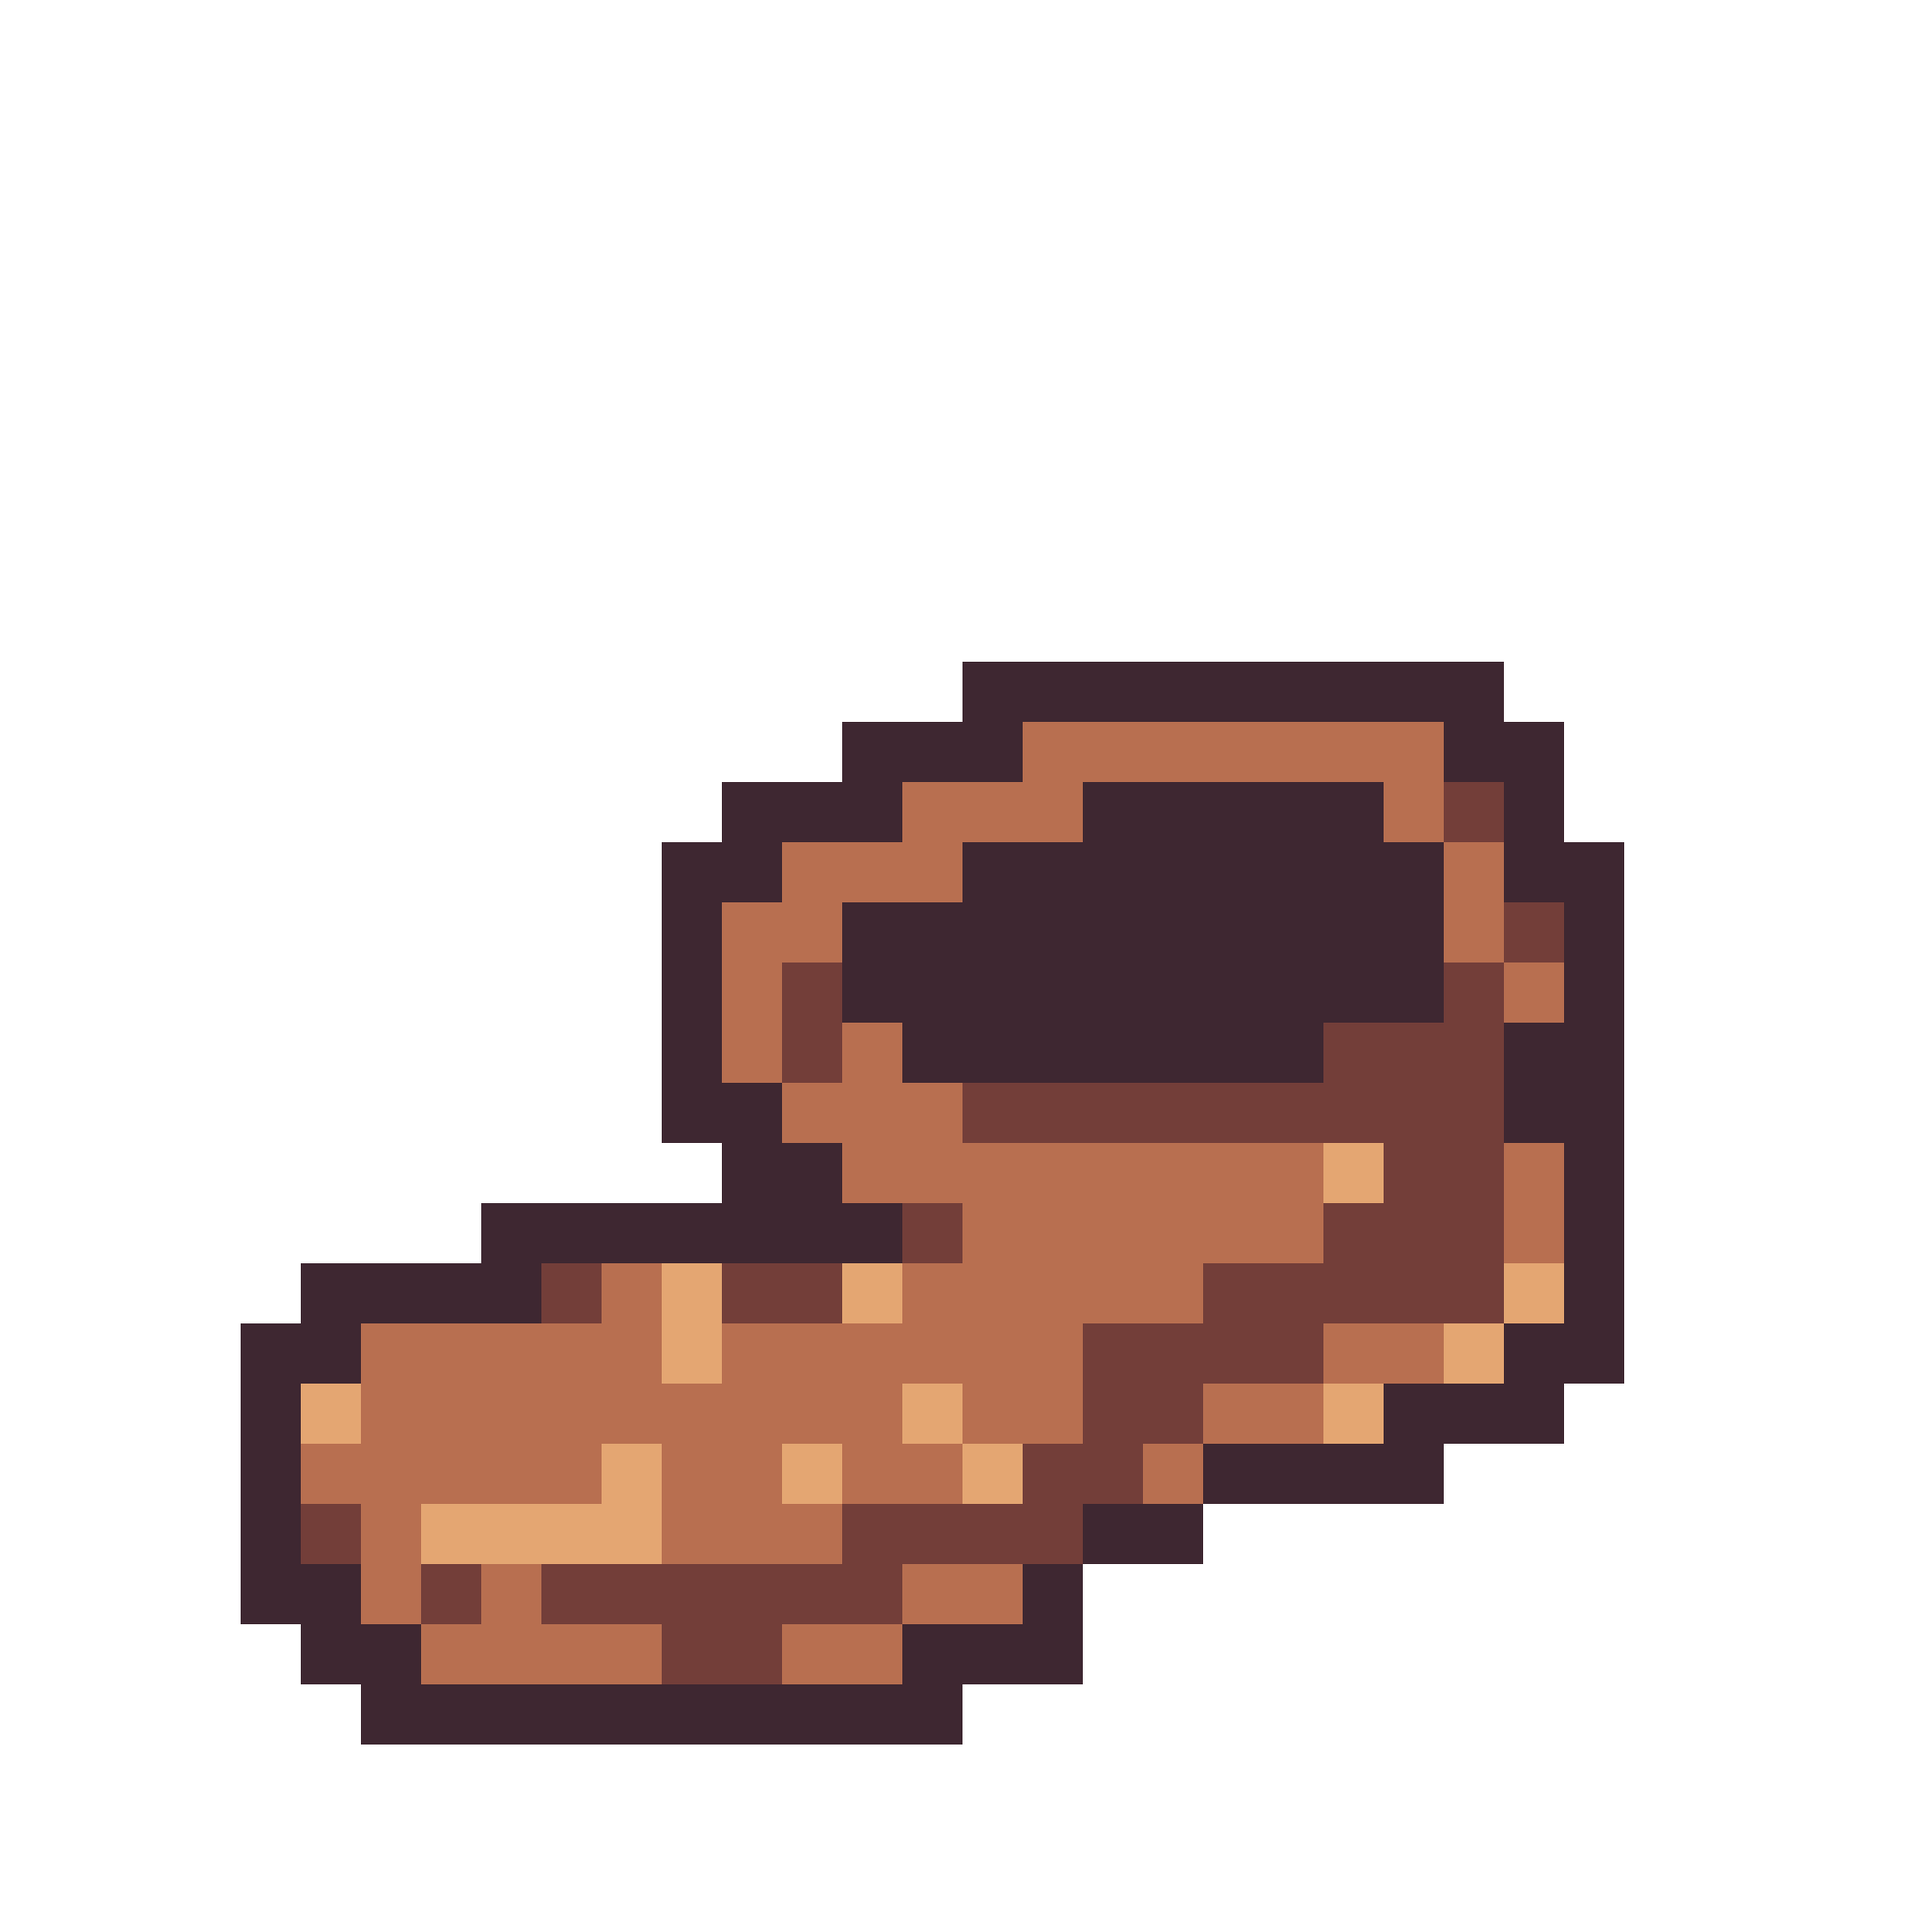
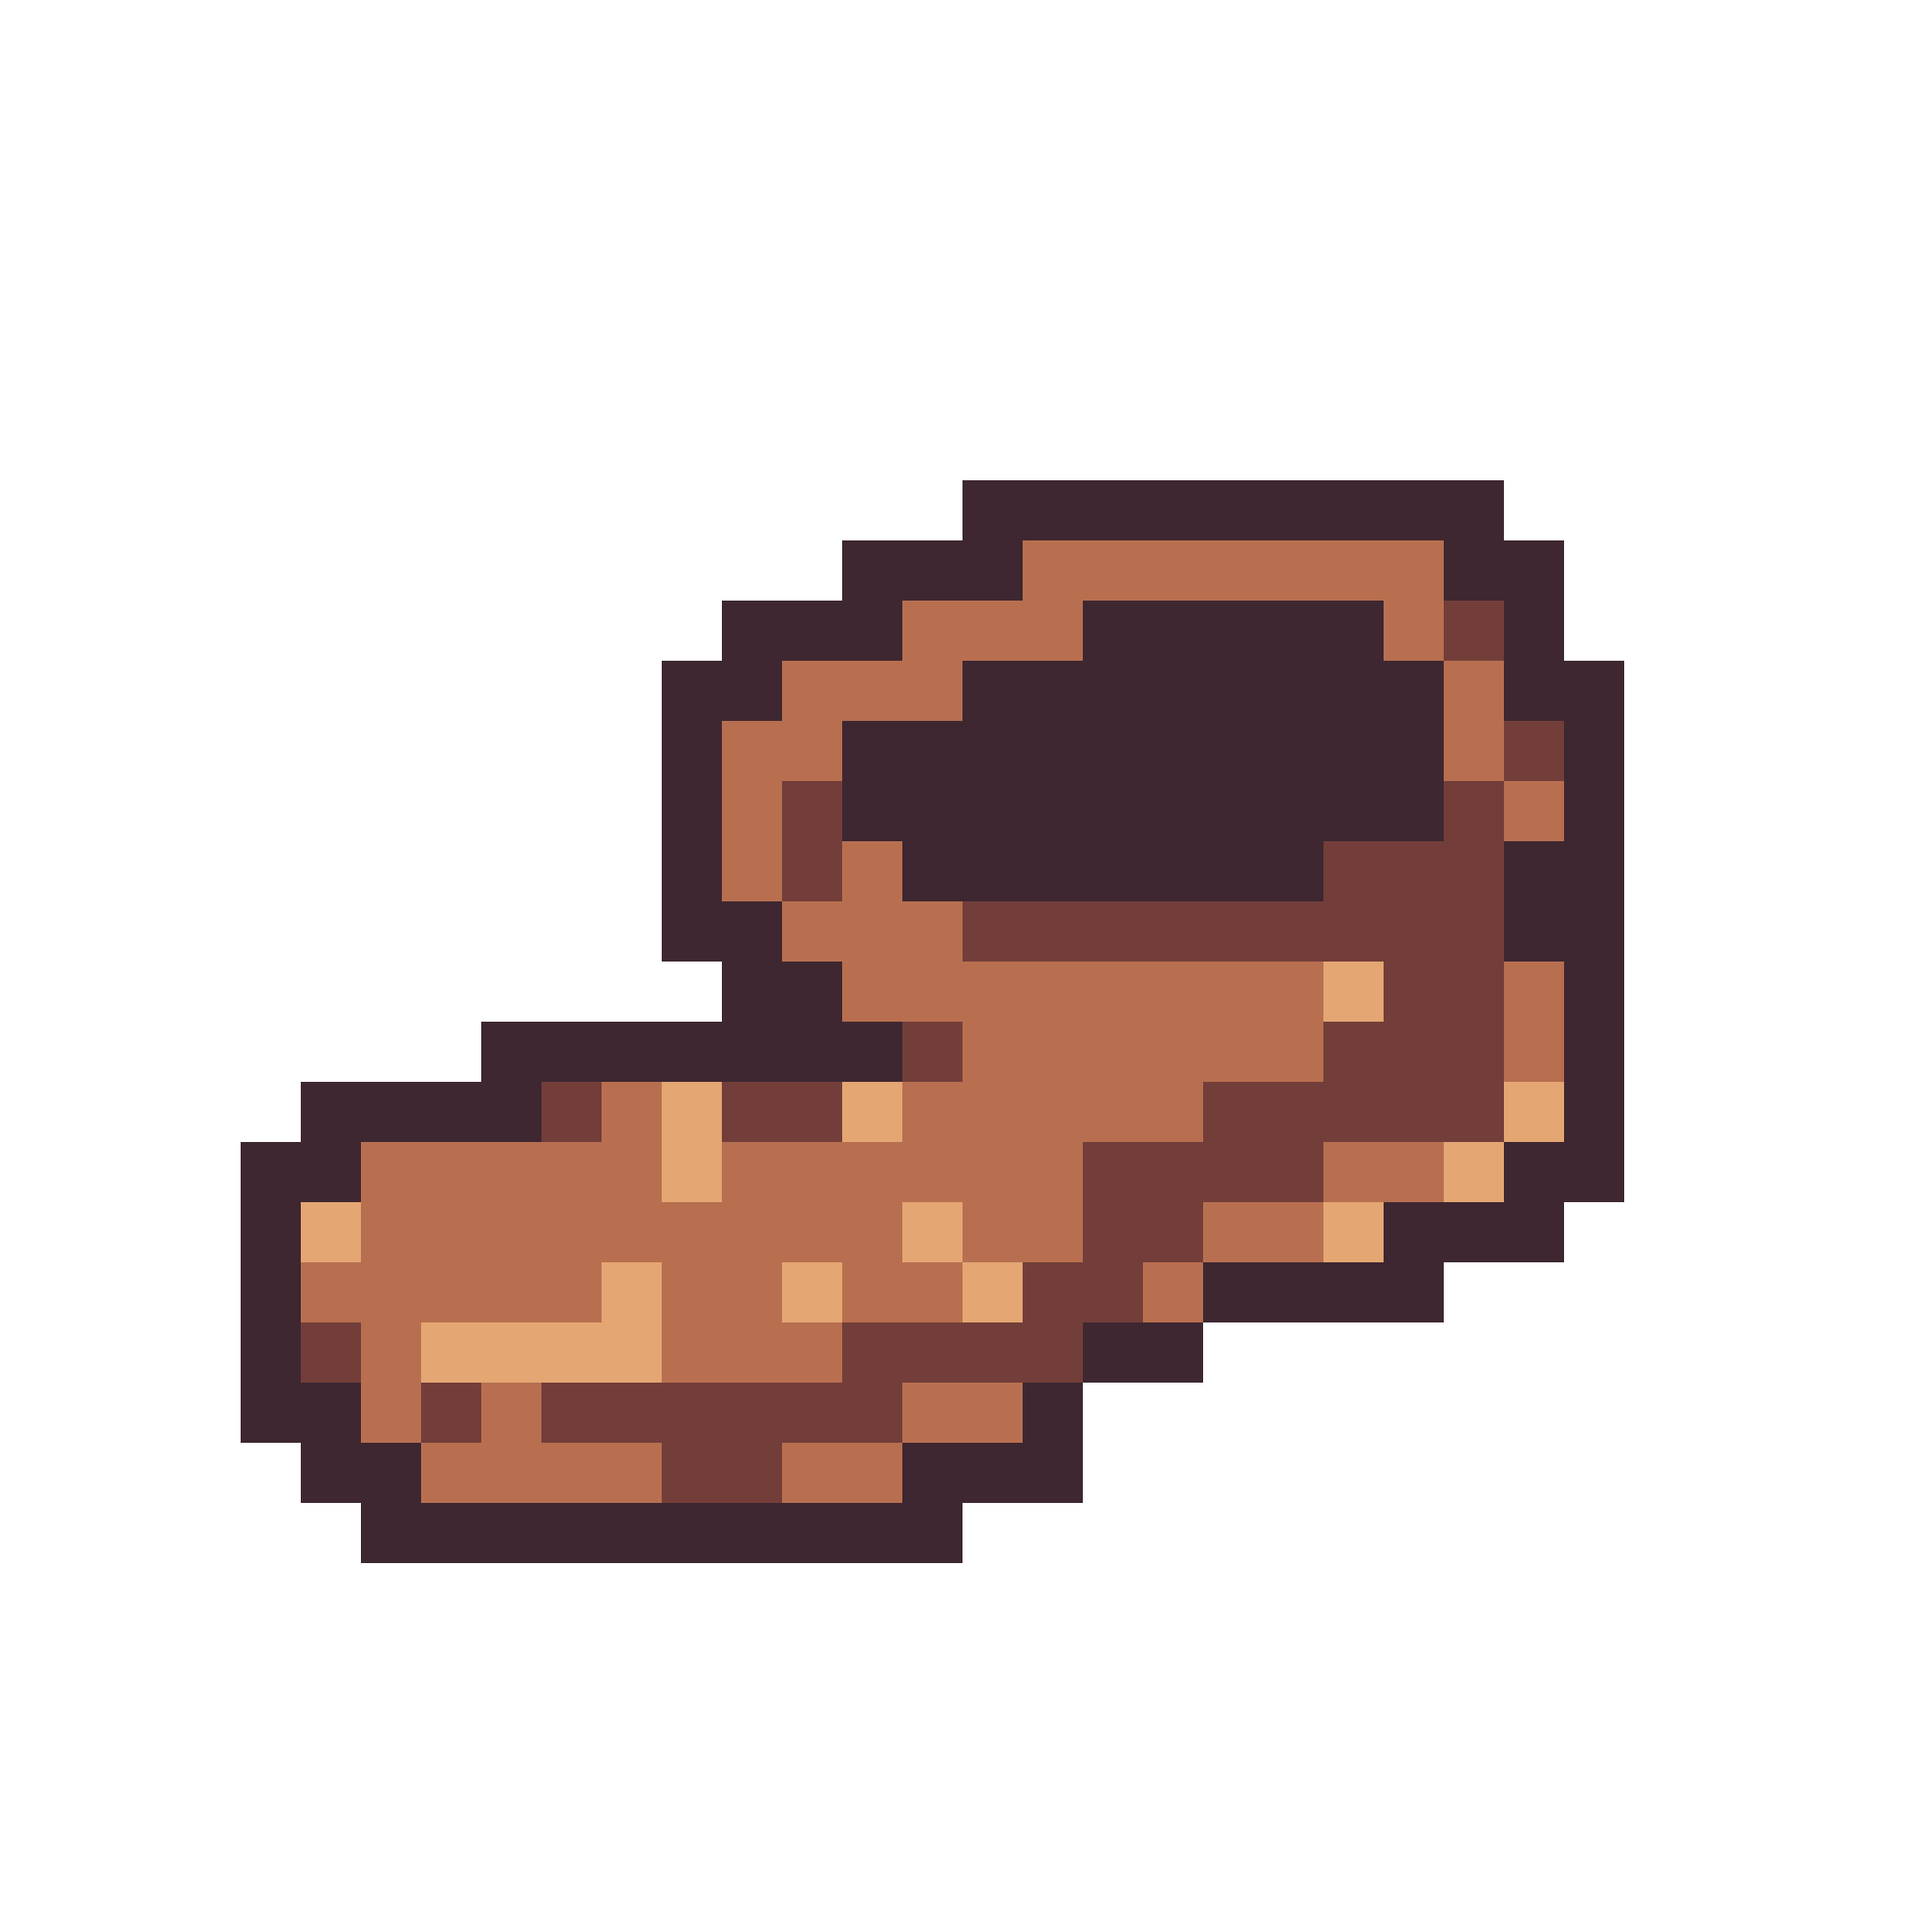
Implemented LEVI and Ogre Strength

Changed region(s): [[0.125, 0.25, 0.8438, 0.9062]]

diff --git a/Spells.cs b/Spells.cs
@@ -29,6 +29,7 @@ class Spells
     new SpellInfo("MACO","Magic Compass", 2, 3, 0, SpellDuration.Medium, SpellContext.Exploring, Role.Conjurer, SpellTarget.None),
     new SpellInfo("BASK","Battleskill", 2, 4, 0, SpellDuration.Combat, SpellContext.Combat, Role.Conjurer, SpellTarget.PartyMember),
     new SpellInfo("WOHL","Word of Healing", 2, 4, 0, SpellDuration.NA, SpellContext.Both, Role.Conjurer, SpellTarget.PartyMember),
+    new SpellInfo("LEVI","Levitation", 3, 5, 0, SpellDuration.Short, SpellContext.Exploring, Role.Conjurer, SpellTarget.None),
     new SpellInfo("WAST","Warstrike", 3, 5, 20, SpellDuration.NA, SpellContext.Combat, Role.Conjurer, SpellTarget.Monsters),
 
     // Magician
@@ -41,6 +42,7 @@ class Spells
     new SpellInfo("MAGA","Mage Gaunlets", 2, 5, 0, SpellDuration.Combat, SpellContext.Combat, Role.Magician, SpellTarget.PartyMember),
     new SpellInfo("AREN","Area Enchant", 2, 5, 3, SpellDuration.Short, SpellContext.Exploring, Role.Magician, SpellTarget.None),
     new SpellInfo("MYSH","Mystic Shield", 3, 6, 0, SpellDuration.Medium, SpellContext.Both, Role.Magician, SpellTarget.FullParty),
+    new SpellInfo("OGST","Ogre Strength", 3, 6, 0, SpellDuration.Combat, SpellContext.Combat, Role.Magician, SpellTarget.PartyMember),
     new SpellInfo("STFL","Star Flare", 3, 6, 40, SpellDuration.NA, SpellContext.Combat, Role.Magician, SpellTarget.Monsters),
 
     // Trickster
@@ -124,6 +126,9 @@ class SpellResolver(List<MonsterGroup> foes, Battle battle)
         gs.Party.Buffs = [.. gs.Party.Buffs.Where(b => b.Buff != Buff.Compass)];
         gs.Party.Buffs.Add(new TempBuff(Buff.Compass, gs.Turn + DURATION_MEDIUM, false));
         break;
+      case "LEVI":
+        Levi(caster, DURATION_SHORT, gs, spell.Cost);
+        break;
       case "MAFL":
         Mafl(caster, gs, spell.Cost);
         break;
@@ -137,6 +142,14 @@ class SpellResolver(List<MonsterGroup> foes, Battle battle)
         break;
       case "MYSH":
         Mysh(caster, gs, spell.Cost);
+        break;
+      case "OGST":
+        if (target is not null)
+        {
+          caster.MP -= spell.Cost;
+          if (!target.Buffs.Any(b => b.Buff == Buff.OgreStrength))
+            target.Buffs.Add(new TempBuff(Buff.OgreStrength, ulong.MaxValue, true));
+        }
         break;
       case "PHBL":
         Phbl(caster, gs, spell.Cost);
@@ -277,11 +290,18 @@ class SpellResolver(List<MonsterGroup> foes, Battle battle)
     }
   }
   
+  static void Levi(Character caster, ulong duration, GameState gs, int cost)
+  {
+    caster.MP -= cost;
+    gs.Party.Buffs = [.. gs.Party.Buffs.Where(b => b.Buff != Buff.Levitation)];
+    gs.Party.Buffs.Add(new TempBuff(Buff.Levitation, gs.Turn + duration, false));
+  }
+
   static void Mafl(Character caster, GameState gs, int cost)
   {
     caster.MP -= cost;
     gs.Party.ClearLightSources();
-    gs.Party.Buffs.Add(new TempBuff(Buff.MageFlame, gs.Turn + 2000, false));
+    gs.Party.Buffs.Add(new TempBuff(Buff.MageFlame, gs.Turn + DURATION_MEDIUM, false));
   }
 
   static void Stli(Character caster, int cost, GameState gs)

diff --git a/Battle.cs b/Battle.cs
@@ -607,6 +607,7 @@ class Battle(GameState gs, Rng rng, List<MonsterGroup> foes)
 
     bool hiding = false;
     bool vorpalPlating = false;
+    bool ogreStrength = false;
     bool mageGauntlets = false;
     bool battleSkill = false;
     bool smiting = false;
@@ -622,6 +623,8 @@ class Battle(GameState gs, Rng rng, List<MonsterGroup> foes)
         battleSkill = true;
       else if (buff.Buff == Buff.Smite)
         smiting = true;
+      else if (buff.Buff == Buff.OgreStrength)
+        ogreStrength = true; 
     }
 
     Monster target = Foes[monsterGroup].Monsters[0];
@@ -658,6 +661,8 @@ class Battle(GameState gs, Rng rng, List<MonsterGroup> foes)
         roll += 4;
       if (smiting)
         roll += 3;
+      if (ogreStrength)
+       roll += 7;
 
       int toHitTarget = c.THAC0 - target.AC;
       foreach (var buff in target.Buffs)
@@ -679,6 +684,8 @@ class Battle(GameState gs, Rng rng, List<MonsterGroup> foes)
           dmg += rng.Next(4, 17);
         if (battleSkill)
           dmg += 4;
+        if (ogreStrength)
+          dmg += 7;
         if (smiting)
           dmg += rng.Next(1, 9) * int.Max(1, c.Level / 2);
 

diff --git a/Utils.cs b/Utils.cs
@@ -17,8 +17,9 @@ enum SaveResult { Success, Partial, Failure }
 enum Flame { None, Fire, Blue }
 record StatusIcons(Flame Light, bool Shoe, bool Eye, Dir Facing, bool Shield, bool Carpet);
 
-enum Buff { AirArmour, AreaEnchant, BattleSkill, Compass, Defending, EbenezumEscape, FreezeFoe, MageFlame, MysticCoatOfArmour, MysticShield, 
-            Hiding, Hypnotized, MageGauntlets, PhaseBlur, SoftStep, SorcShield, Smite, SteelLight, Torch, VorpalPlating, Invisibility }
+enum Buff { AirArmour, AreaEnchant, BattleSkill, Compass, Defending, EbenezumEscape, FreezeFoe, MageFlame, Levitation, MysticCoatOfArmour, 
+            MysticShield, OgreStrength, Hiding, Hypnotized, Invisibility, MageGauntlets, PhaseBlur, SoftStep, SorcShield, Smite, SteelLight, 
+            Torch, VorpalPlating }
 
 record struct TempBuff(Buff Buff, ulong ExpiresOn, bool CombatOnly);
 

diff --git a/Screens/AdventureScreen.cs b/Screens/AdventureScreen.cs
@@ -9,6 +9,7 @@
 // with this software. If not, 
 // see <http://creativecommons.org/publicdomain/zero/1.0/>.
 
+using System.Security.Cryptography.X509Certificates;
 using SDL;
 
 namespace BardsTaleKnockOff;
@@ -169,6 +170,10 @@ class AdventureScreen(App app) : IScreen, IPartyPickScreen, ICastSpellScreen
 
   void DartTrap0()
   {
+    // Levitation should project from traps most of the time
+    if (app.GameState.Party.Buffs.Any(b => b.Buff == Buff.Levitation) && app.Rng.Next(4) > 0)
+      return;
+
     app.Screens.Push(new PopupScreen(app, "A trap!!"));
 
     if (GS.Party.Members[0] is Character c)

diff --git a/GameUI.cs b/GameUI.cs
@@ -323,6 +323,8 @@ unsafe class GameUI
         facing = gs.Facing;
       else if (b.Buff == Buff.AreaEnchant)
         eye = true;
+      else if (b.Buff == Buff.Levitation)
+        carpet = true;
     }
     
     bool shield = false;
@@ -335,7 +337,6 @@ unsafe class GameUI
       }
     }
 
-    carpet = true;
     DrawStatusIcons(new(light, softStep, eye, facing, shield, carpet));
   }
 
